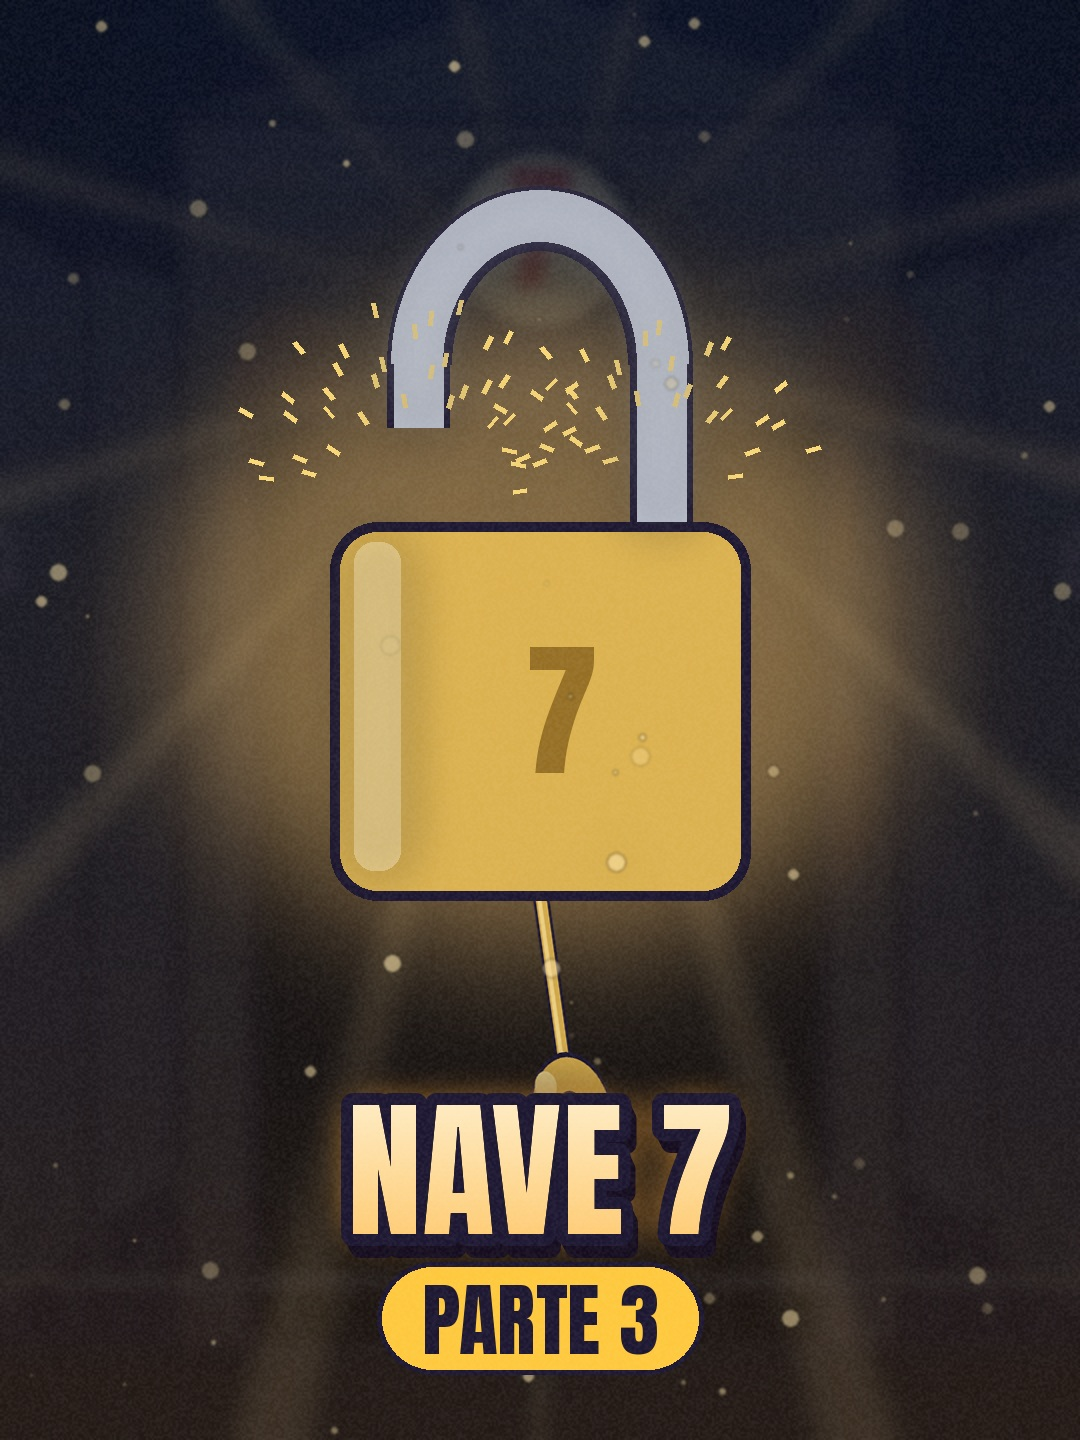
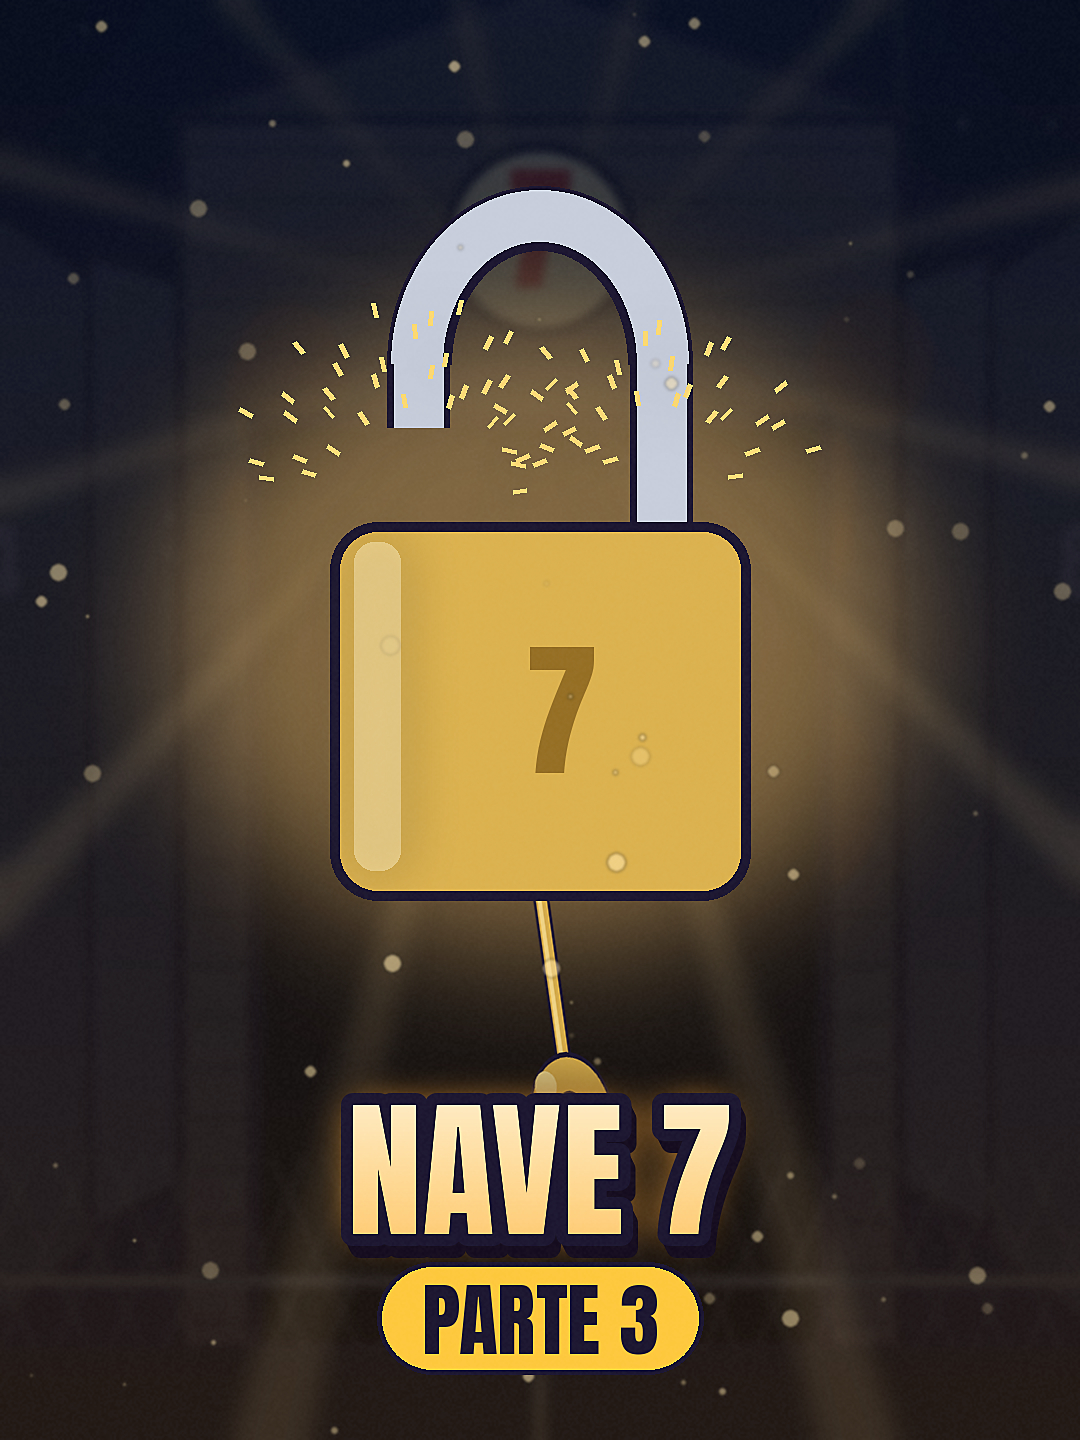
Portadas pro nítidas: calidad máxima sin submuestreo, enfoque suave
Claude-Session: https://claude.ai/code/session_01NdJoArJvAFN6ncq433eaCm

diff --git a/taller-pov/portada_pro.py b/taller-pov/portada_pro.py
@@ -9,7 +9,7 @@ from render import Image, ImageDraw, ImageFilter, put, scaled, bg, dark, text, Y
 
 CW, CH = 1080, 1440
 
-def lienzo(name, z=1.2, fx=.5, fy=.55, d=150, blur=7):
+def lienzo(name, z=1.2, fx=.5, fy=.55, d=150, blur=4):
     c = bg(name, 0, 0, z, z, 1, fx, fy).crop((0, 240, 1080, 1680)).filter(ImageFilter.GaussianBlur(blur)); dark(c, d); return c
 
 def grade(c, top, bottom, a=110):
@@ -68,7 +68,7 @@ def chip(c, n, col, y=1318):
     d.rounded_rectangle((540 - w / 2, y - 56, 540 + w / 2, y + 56), 56, fill=col, outline=OL, width=5)
     d.text((540, y + 2), s, font=f, fill=OL, anchor="mm")
 
-def bloom(c, thr=200, k=.55):
+def bloom(c, thr=210, k=.35):
     lum = c.convert("L").point(lambda v: 255 if v > thr else 0)
     br = Image.new("RGBA", (CW, CH), (0, 0, 0, 0)); br.paste(c, (0, 0), lum)
     br = br.filter(ImageFilter.GaussianBlur(26)); br.putalpha(br.getchannel("A").point(lambda v: int(v * k)))
@@ -79,10 +79,10 @@ def acabado(c, seed):
     v = v.filter(ImageFilter.GaussianBlur(160)); sh = Image.new("RGBA", (CW, CH), (0, 0, 0, 230)); sh.putalpha(v.point(lambda p: 230 - int(p * .9)))
     c.alpha_composite(sh)
     rnd = random.Random(seed); g = Image.new("L", (CW // 2, CH // 2)); g.putdata([rnd.randint(0, 255) for _ in range(CW * CH // 4)])
-    gr = Image.new("RGBA", (CW, CH), (255, 255, 255, 0)); gr.putalpha(g.resize((CW, CH)).point(lambda p: int(p * .06))); c.alpha_composite(gr)
+    gr = Image.new("RGBA", (CW, CH), (255, 255, 255, 0)); gr.putalpha(g.resize((CW, CH)).point(lambda p: int(p * .025))); c.alpha_composite(gr)
 
 def p1():
-    c = lienzo("bg_taller", 1.3, .5, .62, 170, 9); grade(c, (40, 10, 70), (120, 20, 90), 90)
+    c = lienzo("bg_taller", 1.3, .5, .62, 170, 5); grade(c, (40, 10, 70), (120, 20, 90), 90)
     rayos(c, 540, -60, (255, 230, 190), 7, 40, .9)
     glow(c, [((60, 480, 1020, 1000), (255, 220, 170, 90)), ((-140, 880, 1220, 1180), MAG + (150,)), ((200, 940, 880, 1080), CYAN + (90,))])
     car = scaled("deportivo", .96).rotate(-2, resample=Image.BICUBIC, expand=True)
@@ -142,7 +142,7 @@ def p3():
 if __name__ == "__main__":
     outs = []
     for n, f in ((1, p1), (2, p2), (3, p3)):
-        p = os.path.join(r.HERE, f"portada_pro_parte{n}.jpg"); f().convert("RGB").save(p, quality=94); outs.append(p)
+        p = os.path.join(r.HERE, f"portada_pro_parte{n}.jpg"); f().convert("RGB").filter(ImageFilter.UnsharpMask(1.2, 60, 2)).save(p, quality=100, subsampling=0); outs.append(p)
     grid = Image.new("RGB", (3 * 360 + 8, 480), (255, 255, 255))
     for i, p in enumerate(reversed(outs)): grid.paste(Image.open(p).resize((360, 480)), (i * 364, 0))
     grid.save(os.path.join(r.HERE, "perfil_ejemplo_pro.jpg"), quality=92)
@@ -159,4 +159,4 @@ def a_916(path34, bgname, fx, fy, out):
     for i in range(90):   # fundido suave arriba y abajo
         a = int(255 * i / 90); md.line((0, i, CW, i), fill=a); md.line((0, CH - 1 - i, CW, CH - 1 - i), fill=a)
     full.paste(im, (0, 240 - SUBE), m)
-    full.convert("RGB").save(out, quality=94)
+    full.convert("RGB").save(out, quality=100, subsampling=0)
